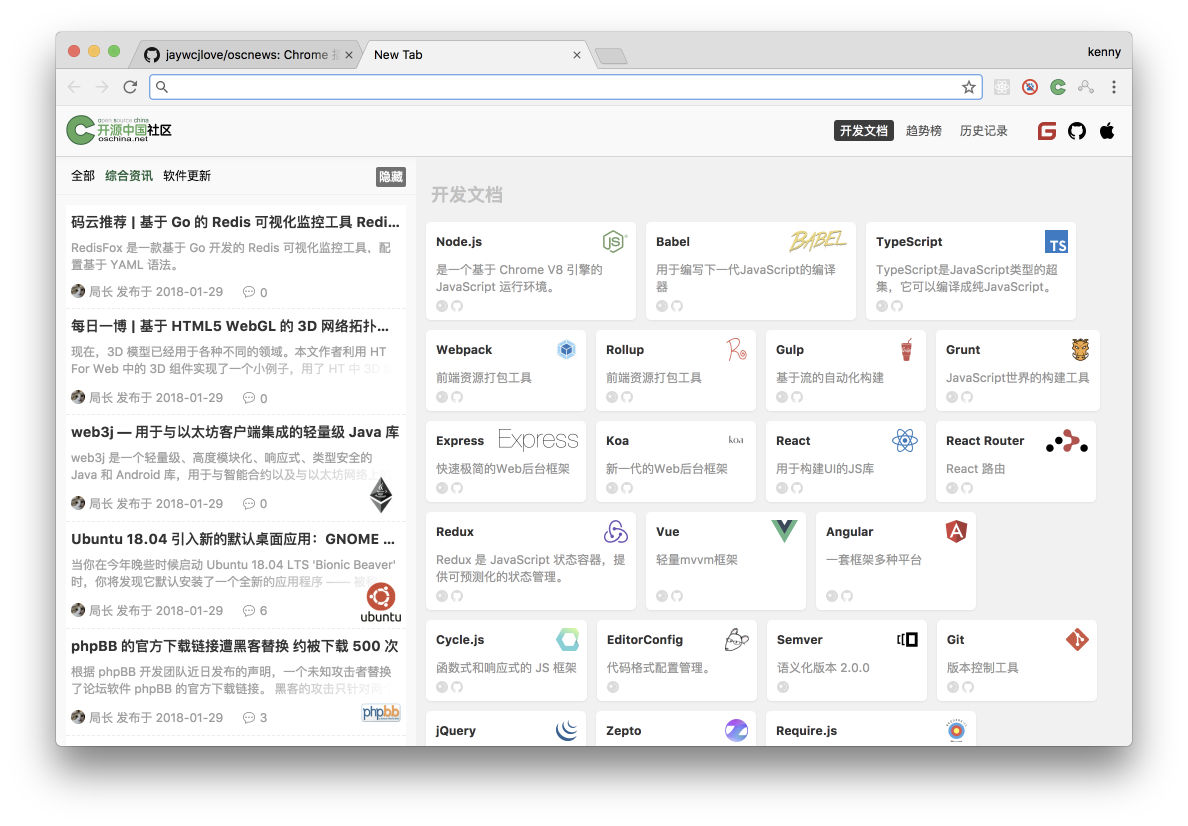
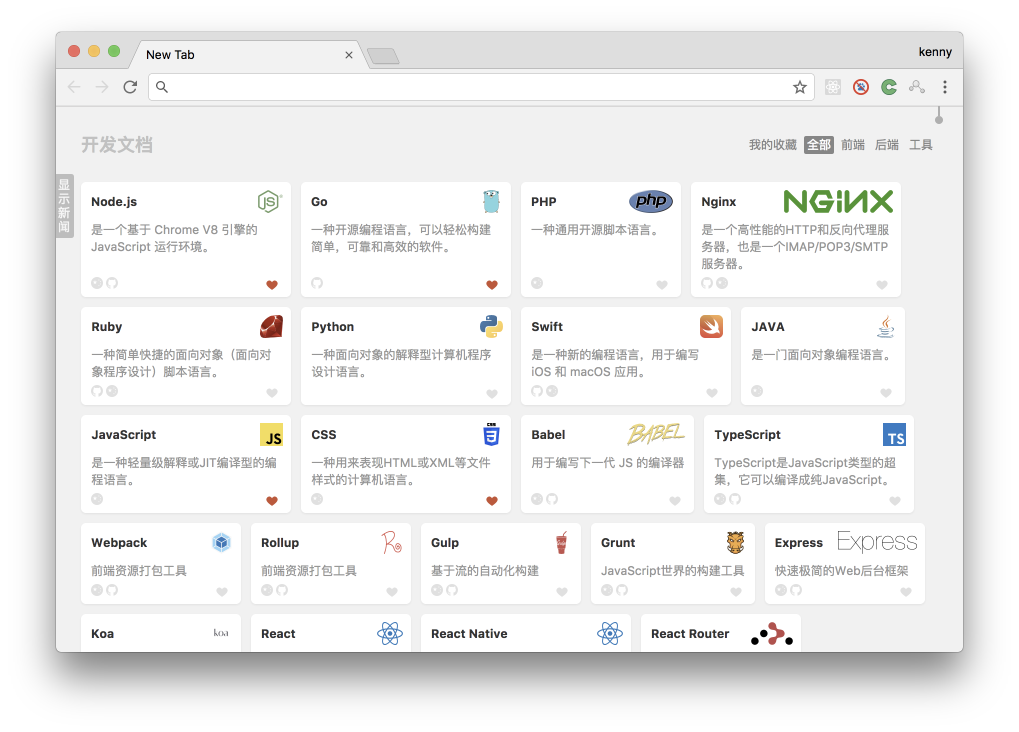
Update README.md

Changed region(s): [[0.0304, 0.0301, 0.9735, 0.9317], [0.7605, 0.7213, 0.9127, 0.8415], [0.9431, 0.0301, 0.9735, 0.0601]]

diff --git a/src/pages/Blank.js b/src/pages/Blank.js
@@ -1,6 +1,11 @@
 import React, { Component } from 'react';
 import styles from './Blank.less';
 
+// 搜索地点
+// http://toy1.weather.com.cn/search?cityname=%E5%8C%97%E4%BA%AC
+// 根据id查询天气
+// http://www.weather.com.cn/data/sk/101010300.html
+
 const time = () => {
   const hours = new Date().getHours();
   const minutes = new Date().getMinutes();
@@ -19,8 +24,8 @@ const date = () => {
     <div className={styles.date}>
       {`${new Date().getMonth() + 1}月${new Date().getDate()}日  ${['周日', '周一', '周二', '周三', '周四', '周五', '周六'][new Date().getDay()]}`}
     </div>
-  )
-}
+  );
+};
 
 export default class Blank extends Component {
   constructor(props) {

diff --git a/README.md b/README.md
@@ -10,6 +10,7 @@
 <div align="center">
   <img src="./img/osc-news.png"> 
   <img src="./img/osc-news2.png"> 
+  <img src="./img/osc-news3.png"> 
 </div>
 
 ## 商店安装
